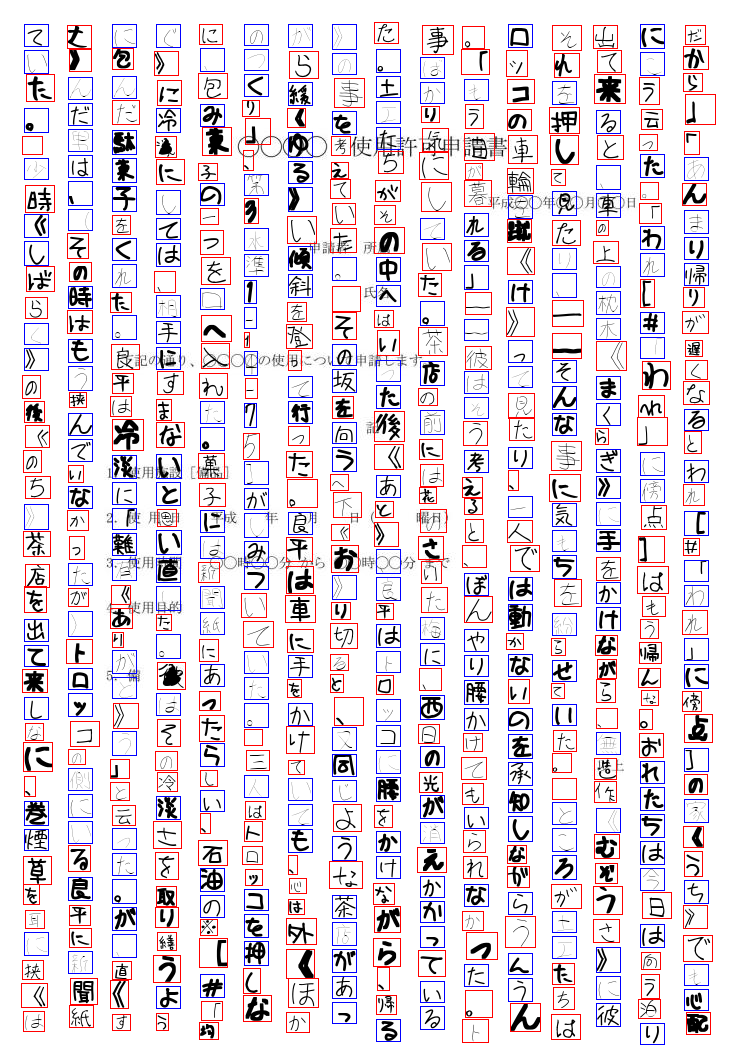
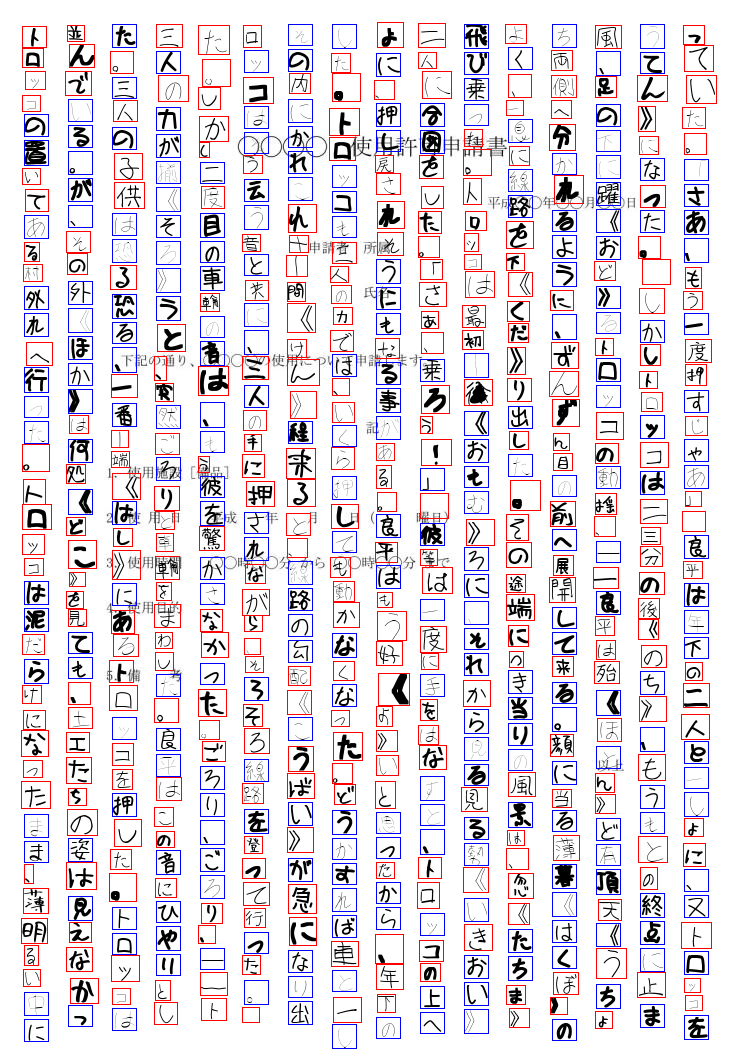
update

Changed region(s): [[0.0309, 0.0, 0.957, 1.0]]

diff --git a/random_char_image/__init__.py b/random_char_image/__init__.py
@@ -117,13 +117,13 @@ class RandomImage:
                     x = self.fontsize
                     y += line_height
 
-                if y > limit_y:
+                if y >= limit_y:
                     break
             else:
                 y += self.font_space + h
-                if y > limit_y:
+                if y >= limit_y:
                     y = self.fontsize
                     x += line_height
-                if x > limit_x:
+                if x >= limit_x:
                     break
         return img, boxes, labels
